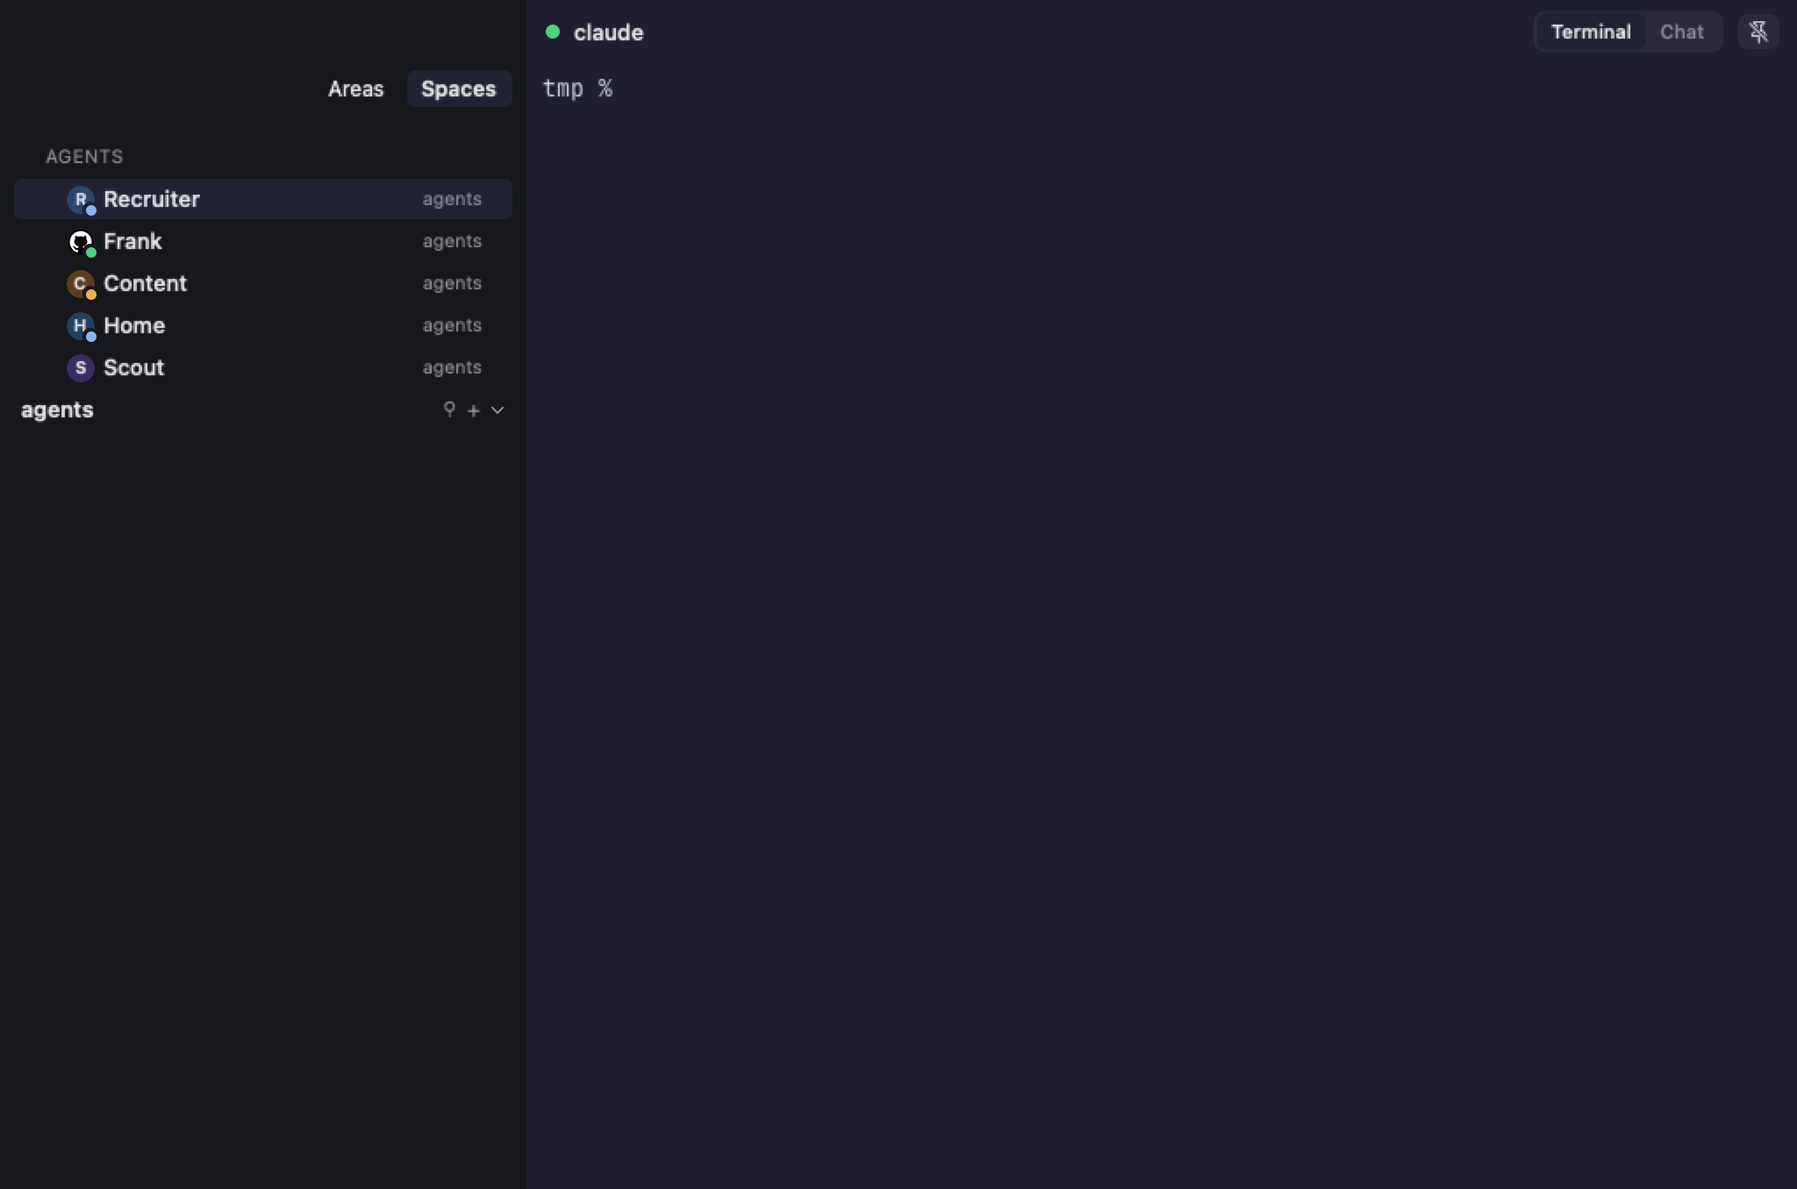
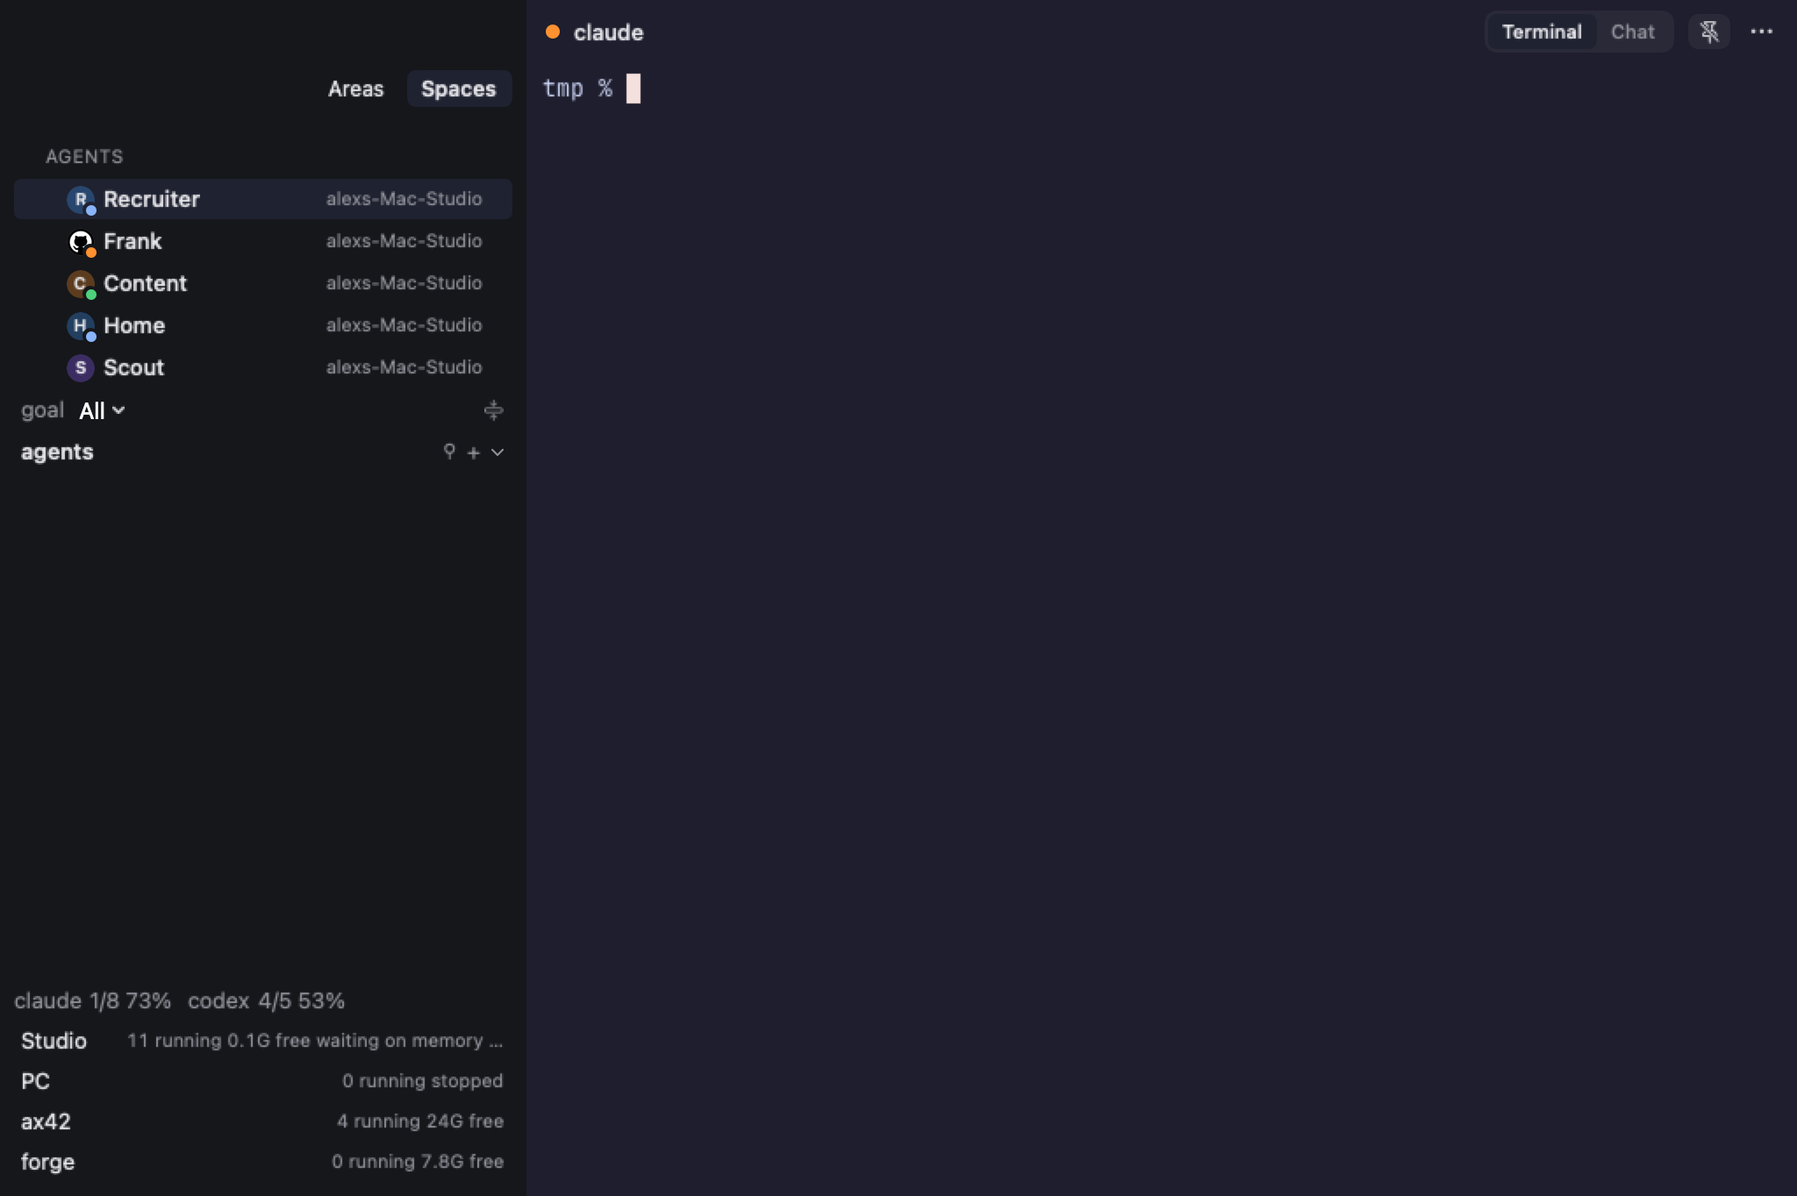
fix(shell): working chats draw orange, unread finishes green; leaving a chat reads it
Alex, 2026-09-29: "an agent is working, it should be oragne. finished, green. also
there's a delay when marking something as read after elaving the chat. the idle
styling is fine". Shapes stay as he settled them in the same message ("actually
other way around seems better?"): only colours change.

- shell/tokens.json gains a `working` colour (the TUI's palette.working, dark
  #FF9130, light #D65D0E). Mac stateTone, face dots, StateGlyph and the PC
  .status/.face-dot rules draw working in it and an unread finish in `ok`
  green; blocked and idle keep their colours. The PC solid dot draws blocked as
  a rounded square like the Mac's ■.
- gen_tokens.py: the var() lint now reads token names with underscores
  (curve1_5, size8_5) instead of rejecting them.
- Server: with attention_read = on_focus, a completion that landed while the
  outer terminal was unfocused (the Shell in front) stayed unread after you left
  the chat until you came back. Leaving a tab now marks it seen.

check: python3 macos/HerdrShell/scripts/check_state_colors.py
check: cd windows/HerdrShell/app && npx vitest run src/stateColors.test.tsx src/faces.test.ts
check: cargo test --locked on_focus_completion_while_unfocused_is_read_when_leaving_the_chat

diff --git a/windows/HerdrShell/app/src/stateColors.test.tsx b/windows/HerdrShell/app/src/stateColors.test.tsx
@@ -1,0 +1,59 @@
+// @vitest-environment happy-dom
+// Alex, 2026-09-29: "an agent is working, it should be oragne. finished, green ... the idle styling is fine".
+// Renders the sidebar's real state dot and face, then resolves each class's colour through styles.css
+// and the generated tokens.css in both modes, the way WebView2 would.
+import { act } from "react";
+import { createRoot } from "react-dom/client";
+import { afterEach, expect, it } from "vitest";
+import { Status } from "./Sidebar";
+import { faceDot } from "./faces";
+const fsModule = "node:fs";
+const { readFileSync } = await import(/* @vite-ignore */ fsModule) as { readFileSync(path: string, encoding: "utf8"): string };
+const styles = readFileSync("src/styles.css", "utf8"), tokens = readFileSync("src/tokens.css", "utf8");
+(globalThis as { IS_REACT_ACT_ENVIRONMENT?: boolean }).IS_REACT_ACT_ENVIRONMENT = true;
+let dispose = () => {};
+afterEach(() => dispose());
+
+const modeBlock = (mode: "dark" | "light") => tokens.slice(tokens.indexOf(mode === "dark" ? ':root, :root[data-theme="dark"]' : ':root[data-theme="light"]')).split("}")[0];
+const token = (mode: "dark" | "light", name: string) => modeBlock(mode).match(new RegExp(`${name}:\\s*(#[0-9A-Fa-f]{6})`))?.[1];
+/** The colour a `.a.b` rule sets for `prop`, resolved through the mode's tokens. */
+function resolve(selector: string, prop: string, mode: "dark" | "light") {
+  const escaped = selector.replace(/[.*+?^${}()|[\]\\]/g, "\\$&");
+  const variable = styles.match(new RegExp(`${escaped}\\s*\\{[^}]*?${prop}:\\s*var\\((--[\\w-]+)\\)`))?.[1];
+  return variable ? token(mode, variable) : undefined;
+}
+const rgb = (hex: string) => [1, 3, 5].map(i => parseInt(hex.slice(i, i + 2), 16));
+const orange = (hex?: string) => { if (!hex) return false; const [r, g, b] = rgb(hex); return r > g && g > b && g > r * 0.3 && g < r * 0.75; };
+const green = (hex?: string) => { if (!hex) return false; const [r, g, b] = rgb(hex); return g > r && g > b; };
+
+function classesOf(element: JSX.Element) {
+  const host = document.createElement("div");
+  document.body.append(host);
+  const root = createRoot(host);
+  act(() => root.render(element));
+  dispose = () => { act(() => root.unmount()); host.remove(); };
+  const classes = [...host.firstElementChild!.classList];
+  dispose();
+  return classes;
+}
+
+it("draws a working chat orange and an unread finish green in both modes; blocked and idle keep their colours", () => {
+  for (const mode of ["dark", "light"] as const) {
+    const colour = (status: string) => {
+      const classes = classesOf(<Status solid status={status} />);
+      expect(classes).toContain("state-dot");
+      return resolve(`.status.${status}`, "color", mode) ?? token(mode, "--shell-muted");
+    };
+    expect(orange(colour("working")), `${mode} working ${colour("working")}`).toBe(true);
+    expect(green(colour("done")), `${mode} done ${colour("done")}`).toBe(true);
+    expect(colour("blocked")).toBe(token(mode, "--shell-bad"));
+    expect(colour("idle")).toBe(token(mode, "--shell-muted"));
+    expect(orange(resolve(`.face-dot.${faceDot("working")}`, "background", mode)), `${mode} working face dot`).toBe(true);
+    expect(green(resolve(`.face-dot.${faceDot("done")}`, "background", mode)), `${mode} done face dot`).toBe(true);
+  }
+});
+
+it("keeps the Mac's shapes on the solid dot: blocked is a rounded square, the rest are circles", () => {
+  expect(styles).toMatch(/\.status\.state-dot\s*\{[^}]*border-radius:\s*50%/);
+  expect(styles).toMatch(/\.status\.state-dot\.blocked\s*\{[^}]*border-radius:\s*var\(--shell-radius-curve1_5\)/);
+});

diff --git a/windows/HerdrShell/app/src/styles.css b/windows/HerdrShell/app/src/styles.css
@@ -14,8 +14,8 @@ button:focus-visible { outline: 1px solid var(--shell-muted); outline-offset: -1
 .select-tab { font: inherit; display: flex; align-items: center; gap: var(--shell-space-sidebar-row-gap); width: 100%; min-width: 0; height: 100%; text-align: left; }
 .label { overflow: hidden; text-overflow: ellipsis; white-space: nowrap; flex: 1; min-width: 0; }
 .status { font-size: var(--shell-type-glyph); color: var(--shell-muted); flex-shrink: 0; }
-.status.state-dot { display: inline-block; background: currentColor; border-radius: 50%; }
-.status.working { color: var(--shell-ok); }.status.blocked { color: var(--shell-bad); }.status.done { color: var(--shell-warn); }
+.status.state-dot { display: inline-block; background: currentColor; border-radius: 50%; }.status.state-dot.blocked { border-radius: var(--shell-radius-curve1_5); }
+.status.working { color: var(--shell-working); }.status.blocked { color: var(--shell-bad); }.status.done { color: var(--shell-ok); }
 .muted { color: var(--shell-muted); }.space-label { max-width: var(--shell-space-step55); overflow: hidden; text-overflow: ellipsis; white-space: nowrap; font-size: var(--shell-type-row-trailing); }
 .pin { display: none; color: var(--shell-muted); flex-shrink: 0; }.tab-row:hover .pin, .tab-row:focus-within .pin, .tab-row[data-test-hover] .pin { display: block; }.pin.is-pinned { color: var(--shell-accent); }
 .indented { padding-left: var(--shell-space-step24); }.chevron { width: var(--shell-space-step10); color: var(--shell-muted); }
@@ -139,7 +139,7 @@ footer { color: var(--shell-muted); padding: var(--shell-space-step12) var(--she
 /* A picture brings its own background; a hairline ring gives it an edge in either theme. */
 .face-disc.picture::after { content: ""; position: absolute; inset: 0; border-radius: 50%; box-shadow: inset 0 0 0 var(--shell-face-ring) var(--shell-line); }
 .face-dot { position: absolute; width: var(--shell-face-dot); height: var(--shell-face-dot); right: calc(-1 * var(--shell-face-dot-offset)); bottom: calc(-1 * var(--shell-face-dot-offset)); border-radius: 50%; }
-.face-dot.ok { background: var(--shell-ok); }.face-dot.accent { background: var(--shell-accent); }.face-dot.warn { background: var(--shell-warn); }
+.face-dot.working { background: var(--shell-working); }.face-dot.ok { background: var(--shell-ok); }.face-dot.accent { background: var(--shell-accent); }.face-dot.warn { background: var(--shell-warn); }
 
 .status.up { color: var(--shell-ok); }.status.connecting { color: var(--shell-warn); }.status.down { color: var(--shell-muted); }
 

diff --git a/macos/HerdrShell/Sources/HerdrShell/ShellTokens.swift b/macos/HerdrShell/Sources/HerdrShell/ShellTokens.swift
@@ -2,8 +2,8 @@
 import CoreGraphics
 
 extension ChromePalette {
-    static let dark = ChromePalette(windowBg: 0x1E1E2E, panel: 0x16171B, line: 0x26272D, sel: 0x1F2230, ink: 0xE6E6EA, mute: 0x909199, orch: 0x5AA9FF, lane: 0xA3AAFF, wf: 0x5CC8C8, ok: 0x4CD27A, warn: 0xF2B04C, cap: 0x181825, hover: 0x222232, split: 0x3A3B4E, field: 0x24253A, faint: 0x6C7086, accent: 0x89B4FA, bad: 0xF38BA8, attentionAct: 0xFF6B6B)
-    static let light = ChromePalette(windowBg: 0xFFFFFF, panel: 0xF3F4F6, line: 0xD5D8DE, sel: 0xE1E6F2, ink: 0x1F2328, mute: 0x565C66, orch: 0x0A5FC4, lane: 0x4A4FC7, wf: 0x0B6E74, ok: 0x17692F, warn: 0x8A5300, cap: 0xF3F3F3, hover: 0xF0F0ED, split: 0xDFDFDF, field: 0xF2F2EF, faint: 0x63666B, accent: 0x0963CE, bad: 0xC7212C, attentionAct: 0xB42318)
+    static let dark = ChromePalette(windowBg: 0x1E1E2E, panel: 0x16171B, line: 0x26272D, sel: 0x1F2230, ink: 0xE6E6EA, mute: 0x909199, orch: 0x5AA9FF, lane: 0xA3AAFF, wf: 0x5CC8C8, ok: 0x4CD27A, warn: 0xF2B04C, cap: 0x181825, hover: 0x222232, split: 0x3A3B4E, field: 0x24253A, faint: 0x6C7086, accent: 0x89B4FA, bad: 0xF38BA8, attentionAct: 0xFF6B6B, working: 0xFF9130)
+    static let light = ChromePalette(windowBg: 0xFFFFFF, panel: 0xF3F4F6, line: 0xD5D8DE, sel: 0xE1E6F2, ink: 0x1F2328, mute: 0x565C66, orch: 0x0A5FC4, lane: 0x4A4FC7, wf: 0x0B6E74, ok: 0x17692F, warn: 0x8A5300, cap: 0xF3F3F3, hover: 0xF0F0ED, split: 0xDFDFDF, field: 0xF2F2EF, faint: 0x63666B, accent: 0x0963CE, bad: 0xC7212C, attentionAct: 0xB42318, working: 0xD65D0E)
 }
 
 extension TerminalTheme {

diff --git a/windows/HerdrShell/app/src/faces.ts b/windows/HerdrShell/app/src/faces.ts
@@ -3,7 +3,7 @@ import type { Snapshot } from "./model";
 // else its initial on one of nine tints (shell/tokens.json `face.tints`) picked from its name.
 export interface AgentCard { name: string; avatar?: string }
 export interface Face { initial: string; tint: number; avatar?: string }
-export type FaceDot = "ok" | "accent" | "warn";
+export type FaceDot = "working" | "ok" | "accent" | "warn";
 export const FACE_TINTS = 9;
 export const AGENTS_DIR = "~/.agent-rails/agents";
 const text = (value: unknown) => typeof value === "string" && value.trim() ? value.trim() : undefined;
@@ -32,10 +32,10 @@ export function faceFor(name: string, avatar?: string): Face {
   const first = [...key][0];
   return { initial: first ? first.toUpperCase() : "?", tint: hash % FACE_TINTS, ...(avatar ? { avatar } : {}) };
 }
-/** An open request or a blocked agent needs you (the row's one blue dot), working is green, done is peach, idle has none. */
+/** An open request or a blocked agent needs you (the row's one blue dot), working is orange, done is green, idle has none. */
 export function faceDot(status: string, request?: string): FaceDot | null {
   if (request) return "accent";
-  return ({ working: "ok", blocked: "accent", done: "warn" } as Record<string, FaceDot>)[status] ?? null;
+  return ({ working: "working", blocked: "accent", done: "ok" } as Record<string, FaceDot>)[status] ?? null;
 }
 export function faceHover(status: string, request?: string): string {
   if (request) return `Needs you, request ${request}`;

diff --git a/macos/HerdrShell/Sources/HerdrShell/Theme.swift b/macos/HerdrShell/Sources/HerdrShell/Theme.swift
@@ -45,6 +45,8 @@ struct ChromePalette: Equatable {
     var accent: UInt32
     var bad: UInt32
     var attentionAct: UInt32
+    /// A chat at work: orange, as the TUI's palette.working (Alex, 2026-09-29: "an agent is working, it should be oragne. finished, green").
+    var working: UInt32
 
     static let textTokenNames = ["ink", "mute", "orch", "lane", "wf", "ok", "warn"]
     static let surfaceTokenNames = ["panel", "sel"]
@@ -91,6 +93,7 @@ struct ChromePalette: Equatable {
         case "accent": return accent
         case "bad": return bad
         case "attentionAct": return attentionAct
+        case "working": return working
         default: return nil
         }
     }
@@ -134,6 +137,7 @@ struct Tokens {
     var lane: Color { Color(hex: chrome.lane) }
     var wf: Color { Color(hex: chrome.wf) }
     var ok: Color { Color(hex: chrome.ok) }
+    var working: Color { Color(hex: chrome.working) }
     var warn: Color { Color(hex: chrome.warn) }
     var cap: Color { Color(hex: chrome.cap) }
     var hover: Color { Color(hex: chrome.hover) }
@@ -147,9 +151,9 @@ struct Tokens {
     /// `.status`): working ok, blocked bad, done warn, anything else mute.
     func stateTone(_ tone: String) -> UInt32 {
         switch tone {
-        case "working": return chrome.ok
+        case "working": return chrome.working
         case "blocked": return chrome.bad
-        case "done": return chrome.warn
+        case "done": return chrome.ok
         default: return chrome.mute
         }
     }

diff --git a/macos/HerdrShell/Sources/HerdrShell/TestHook.swift b/macos/HerdrShell/Sources/HerdrShell/TestHook.swift
@@ -1073,8 +1073,8 @@ final class TestHook {
             // top left, so a check can click each with a real pointer event.
             "row_frames": Dictionary(uniqueKeysWithValues: c.state.rowFrames.map { ($0.key, windowFrame($0.value, in: c.sidebarHostView, c)) }),
             "face_pictures": FacePictures.shared.images.keys.sorted(),
-            "face_dots": ["working": ThemeStore.hex(c.theme.tokens.chrome.ok), "blocked": ThemeStore.hex(c.theme.tokens.chrome.accent),
-                          "done": ThemeStore.hex(c.theme.tokens.chrome.warn)],
+            "face_dots": ["working": ThemeStore.hex(c.theme.tokens.chrome.working), "blocked": ThemeStore.hex(c.theme.tokens.chrome.accent),
+                          "done": ThemeStore.hex(c.theme.tokens.chrome.ok)],
             // What ⌘1..9 select, in order (pins first).
             "numbered_tabs": Array(c.model.numberedTabIds(state: c.state).prefix(9)),
             "hidden_agents": ([c.model.snapshot].compactMap { $0 } + c.model.machines.compactMap(\.snapshot)).flatMap(\.tabs).filter { $0.role == "agent" && ($0.hidden ?? false) }.map(\.tab_id),

diff --git a/macos/HerdrShell/Sources/HerdrShell/StateGlyph.swift b/macos/HerdrShell/Sources/HerdrShell/StateGlyph.swift
@@ -36,7 +36,7 @@ struct StateGlyph: View {
         let s = 8 * scale
         switch state {
         case .working:
-            Circle().fill(tokens.ok).frame(width: s, height: s)
+            Circle().fill(tokens.working).frame(width: s, height: s)
         case .needs:
             Rectangle().fill(tokens.warn).frame(width: 7 * scale, height: 7 * scale).rotationEffect(.degrees(45))
         case .blocked:
@@ -46,7 +46,7 @@ struct StateGlyph: View {
         case .asleep:
             RoundedRectangle(cornerRadius: ShellRadius.curve0_5).fill(tokens.faint).frame(width: 7 * scale, height: 1.5 * scale)
         case .done:
-            Image(systemName: "checkmark").font(.system(size: ShellType.glyph * scale, weight: .semibold)).foregroundStyle(tokens.faint)
+            Image(systemName: "checkmark").font(.system(size: ShellType.glyph * scale, weight: .semibold)).foregroundStyle(tokens.ok)
         }
     }
 }

diff --git a/macos/HerdrShell/Sources/HerdrShell/AgentFace.swift b/macos/HerdrShell/Sources/HerdrShell/AgentFace.swift
@@ -7,7 +7,7 @@ import SwiftUI
 /// Sizes, tints and opacities are shell/tokens.json `face`, shared with the Windows client.
 struct AgentFace: View {
     let face: SpacesRow.Face
-    /// The dot's chrome token (ok, accent, warn), or nil for none.
+    /// The dot's chrome token (working, ok, accent, warn), or nil for none.
     let dot: String?
     /// The row's tone (SpacesTree.mark), named on hover.
     let tone: String
@@ -65,9 +65,10 @@ struct AgentFace: View {
         }
     }
 
-    /// Green while it works, blue when it needs you (the one quiet "for you" dot), peach once done.
+    /// Orange while it works, blue when it needs you (the one quiet "for you" dot), green once done.
     private var dotColor: Color? {
         switch dot {
+        case "working": return t.working
         case "ok": return t.ok
         case "accent": return t.accent
         case "warn": return t.warn

diff --git a/macos/HerdrShell/Sources/HerdrShell/SpacesTree.swift b/macos/HerdrShell/Sources/HerdrShell/SpacesTree.swift
@@ -175,15 +175,15 @@ struct SpacesRow: Identifiable, Equatable {
     var face: Face?
     struct Face: Equatable { var initial: String; var tint: Int; var avatar: String? }
     /// The dot set into the face, as a chrome token: an open request or a blocked agent needs you
-    /// (accent, the row's one blue dot, ahead of any other state), working is ok, done is warn,
+    /// (accent, the row's one blue dot, ahead of any other state), working is orange, done is ok,
     /// idle shows none.
     var faceDot: String? {
         guard face != nil else { return nil }
         if request != nil { return "accent" }
         switch tone {
-        case "working": return "ok"
+        case "working": return "working"
         case "blocked": return "accent"
-        case "done": return "warn"
+        case "done": return "ok"
         default: return nil
         }
     }

diff --git a/windows/HerdrShell/app/src/faces.test.ts b/windows/HerdrShell/app/src/faces.test.ts
@@ -21,7 +21,7 @@ describe("agent faces", () => {
       expect(parseCard(text), text).toBeNull();
   });
   it("puts one dot in the face: an open request is blue ahead of working and done; idle has none", () => {
-    expect(["working", "blocked", "done", "idle", "unknown"].map(s => faceDot(s))).toEqual(["ok", "accent", "warn", null, null]);
+    expect(["working", "blocked", "done", "idle", "unknown"].map(s => faceDot(s))).toEqual(["working", "accent", "ok", null, null]);
     expect(["working", "done", "idle"].map(s => faceDot(s, "req-1"))).toEqual(["accent", "accent", "accent"]);
   });
   it("gives agent rows the face of the card whose pane the tab holds, and its open request", () => {

diff --git a/windows/HerdrShell/app/src/tokens.css b/windows/HerdrShell/app/src/tokens.css
@@ -21,6 +21,7 @@
   --shell-accent: #89B4FA;
   --shell-bad: #F38BA8;
   --shell-attention-act: #FF6B6B;
+  --shell-working: #FF9130;
   --shell-scrim: #1E1E2EEE;
   --shell-scroll-thumb: #E6E6EA38;
   --shell-scroll-thumb-hover: #E6E6EA66;
@@ -48,6 +49,7 @@
   --shell-accent: #0963CE;
   --shell-bad: #C7212C;
   --shell-attention-act: #B42318;
+  --shell-working: #D65D0E;
   --shell-scrim: #FFFFFFEE;
   --shell-scroll-thumb: #1F232838;
   --shell-scroll-thumb-hover: #1F232866;

diff --git a/macos/HerdrShell/scripts/check_state_colors.py b/macos/HerdrShell/scripts/check_state_colors.py
@@ -1,0 +1,44 @@
+#!/usr/bin/env python3
+"""Compiled check of the chat state colours both Shell sidebars draw: working is orange, an
+unread finish is green, blocked stays red and idle stays grey (Alex, 2026-09-29: "an agent is
+working, it should be oragne. finished, green ... the idle styling is fine"). Pure: compiles
+Theme.swift, ShellTokens.swift and SpacesTree.swift, no app or server.
+"""
+import os
+import pathlib
+import subprocess
+import tempfile
+
+ROOT = pathlib.Path(__file__).resolve().parents[1]
+SRC = ROOT / "Sources/HerdrShell"
+with tempfile.TemporaryDirectory(prefix="herdr-state-colors-", dir=os.environ.get("TMPDIR")) as scratch:
+    build = pathlib.Path(scratch)
+    source = build / "state_colors.swift"
+    source.write_text(r'''
+import Foundation
+func log(_ message: String) { FileHandle.standardError.write(Data((message + "\n").utf8)) }
+/// Orange: red channel high, green between, blue low.
+func orange(_ c: UInt32) -> Bool { let r = (c >> 16) & 0xFF, g = (c >> 8) & 0xFF, b = c & 0xFF; return r > g && g > b && Double(g) > Double(r) * 0.3 && Double(g) < Double(r) * 0.75 }
+/// Green: green channel leads.
+func green(_ c: UInt32) -> Bool { let r = (c >> 16) & 0xFF, g = (c >> 8) & 0xFF, b = c & 0xFF; return g > r && g > b }
+@main struct Check {
+    static func main() {
+        for (mode, p) in [("dark", ChromePalette.dark), ("light", ChromePalette.light)] {
+            let t = Tokens(mode: mode == "dark" ? .dark : .light, chrome: p, terminalBg: p.windowBg, terminalFg: p.ink)
+            precondition(orange(t.stateTone("working")), "\(mode): working is orange, got \(String(t.stateTone("working"), radix: 16))")
+            precondition(green(t.stateTone("done")), "\(mode): an unread finish is green, got \(String(t.stateTone("done"), radix: 16))")
+            precondition(t.stateTone("blocked") == p.bad, "\(mode): blocked stays bad")
+            precondition(t.stateTone("idle") == p.mute && t.stateTone("mute") == p.mute, "\(mode): idle keeps its grey")
+            precondition(p.value("working") == t.stateTone("working"), "\(mode): working is a named token")
+        }
+        var row = SpacesRow(id: "agent:t", kind: .tab, tone: "working", title: "chat", face: SpacesRow.Face(initial: "C", tint: 0, avatar: nil))
+        precondition(row.faceDot == "working", "a working face dot is orange")
+        row.tone = "done"; precondition(row.faceDot == "ok", "a finished face dot is green")
+        row.tone = "mute"; precondition(row.faceDot == nil, "idle face shows no dot")
+        print("PASS state_colors: dark+light working orange, done green, blocked bad, idle mute; face dots match")
+    }
+}
+''')
+    driver = build / "state_colors"
+    subprocess.run(["swiftc", "-parse-as-library", str(SRC / "Theme.swift"), str(SRC / "GhosttyConfigMerge.swift"), str(SRC / "ShellTokens.swift"), str(SRC / "SpacesTree.swift"), str(source), "-o", str(driver)], check=True, timeout=240)
+    subprocess.run([str(driver)], check=True, timeout=60)
